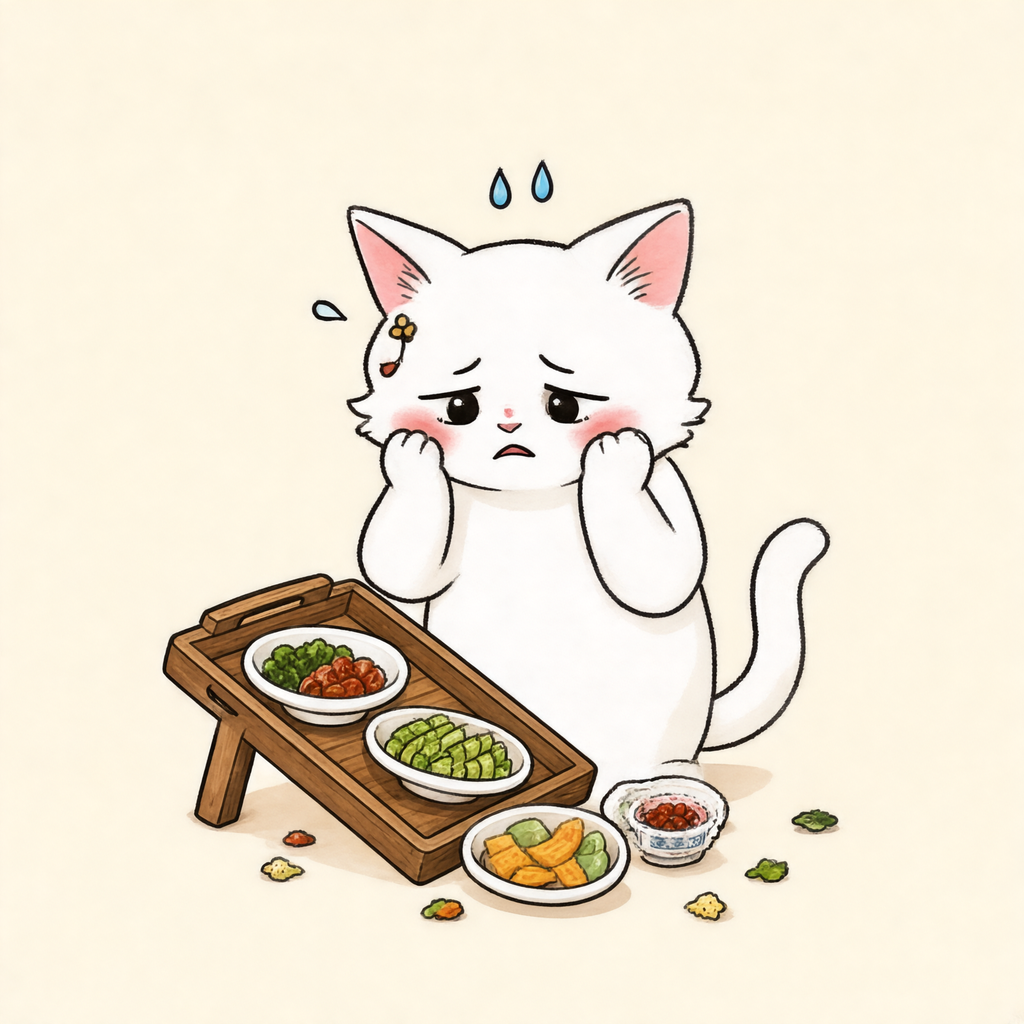
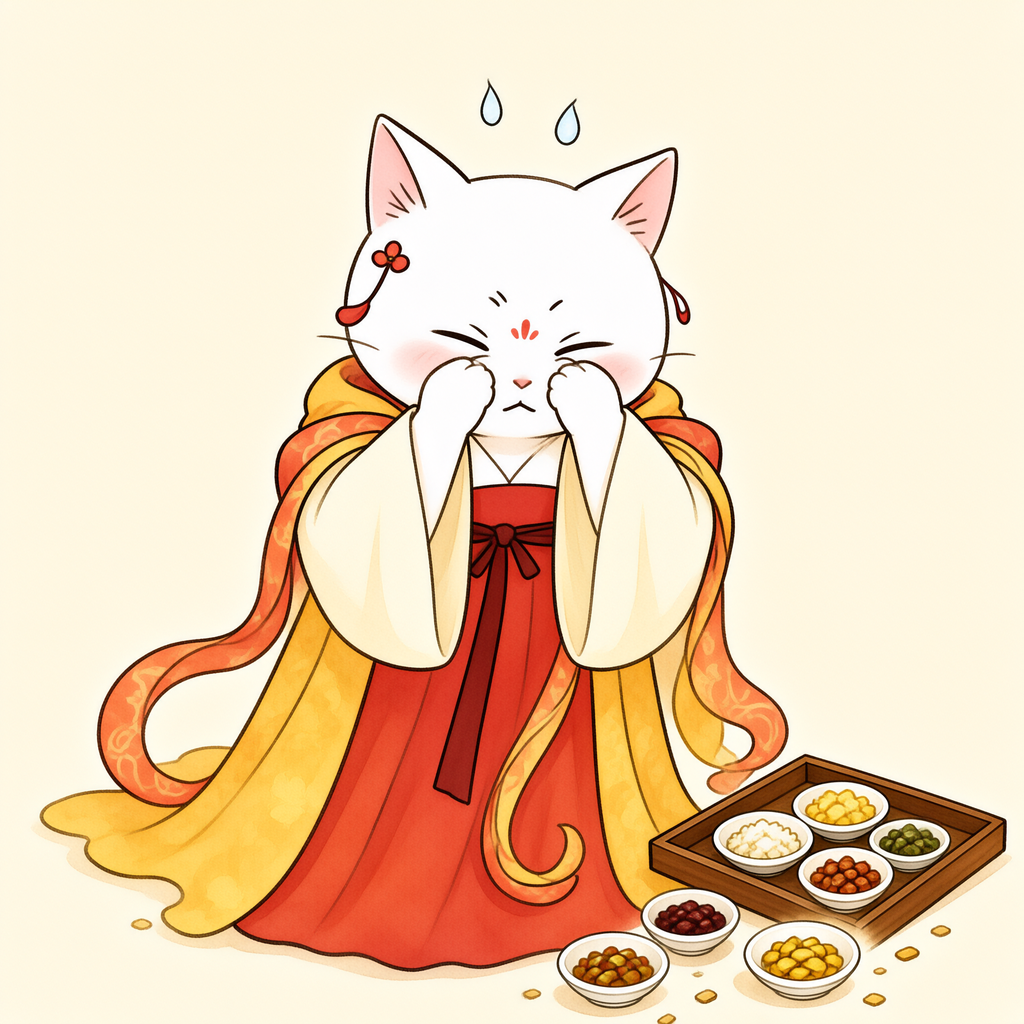
素材: 搜索空态/404/缺图兜底三图重制(补唐制襦裙服装,修正裸猫问题);README补服装必写教训

diff --git a/assets/brand/README.md b/assets/brand/README.md
@@ -23,15 +23,16 @@ python "C:\Users\Lenovo\.agents\skills\sensenova-image\scripts\gen.py" --edit \
 
 **必须写**（识别性特征，缺一就不像）：
 - 拟人化白猫站立，**头大身圆的幼态比例（头约占一半），像参考图里提灯笼的小孩猫**
+- **穿着参考图同款的唐制襦裙**——米白上衫+红黄渐变齐胸长裙+橙红披帛。⚠ 服装必须每次显式写入，漏写 AI 必画裸猫（已踩坑：404/缺图兜底首批因此返工）
 - **闭眼微笑**：两道细长下弯弧线，不要画睁眼
 - 额心红色小花钿；**头侧金色小花+红色垂坠发饰**（官方白猫标志性细节）
 - 粉色内耳；粉色腮红晕
-- 唐制齐胸襦裙（米白上衫+红黄渐变长裙，裙面金色团花纹样），肩绕橙红披帛飘带
 - 手绘水彩质感，细线描边，奶油色背景
 
 **禁止写**（踩过的坑）：
 - ~~"身体修长、像穿着唐装的小人"~~ → lite 会忠实执行，头画小、脸人化，猫感尽失
 - ~~盘扣/立领~~ → 那是明清元素，唐制襦裙无盘扣
+- **prompt 里漏掉服装** → 必出裸猫；每张生成后先检查"穿衣服了吗"
 
 **模型选择**：样貌以 **fast** 为准（lite 指令遵循强，prompt 有偏差会被放大）；fast 确认样貌后、且需要更高细节时才上 lite，出完必须再和参考图对比一次。
 
